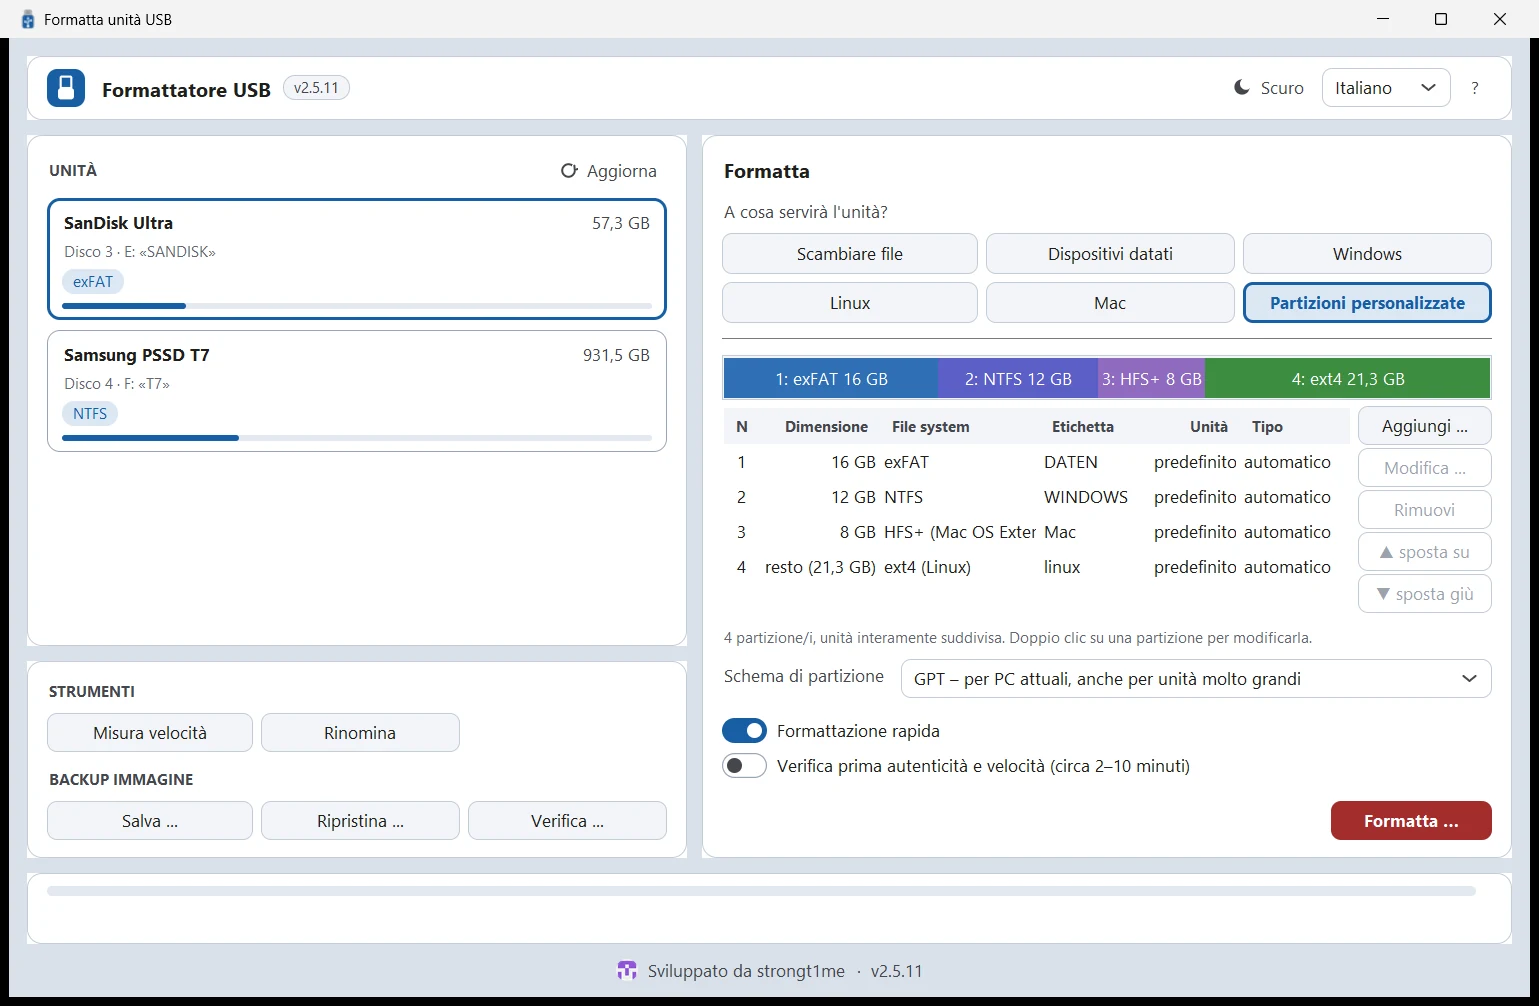
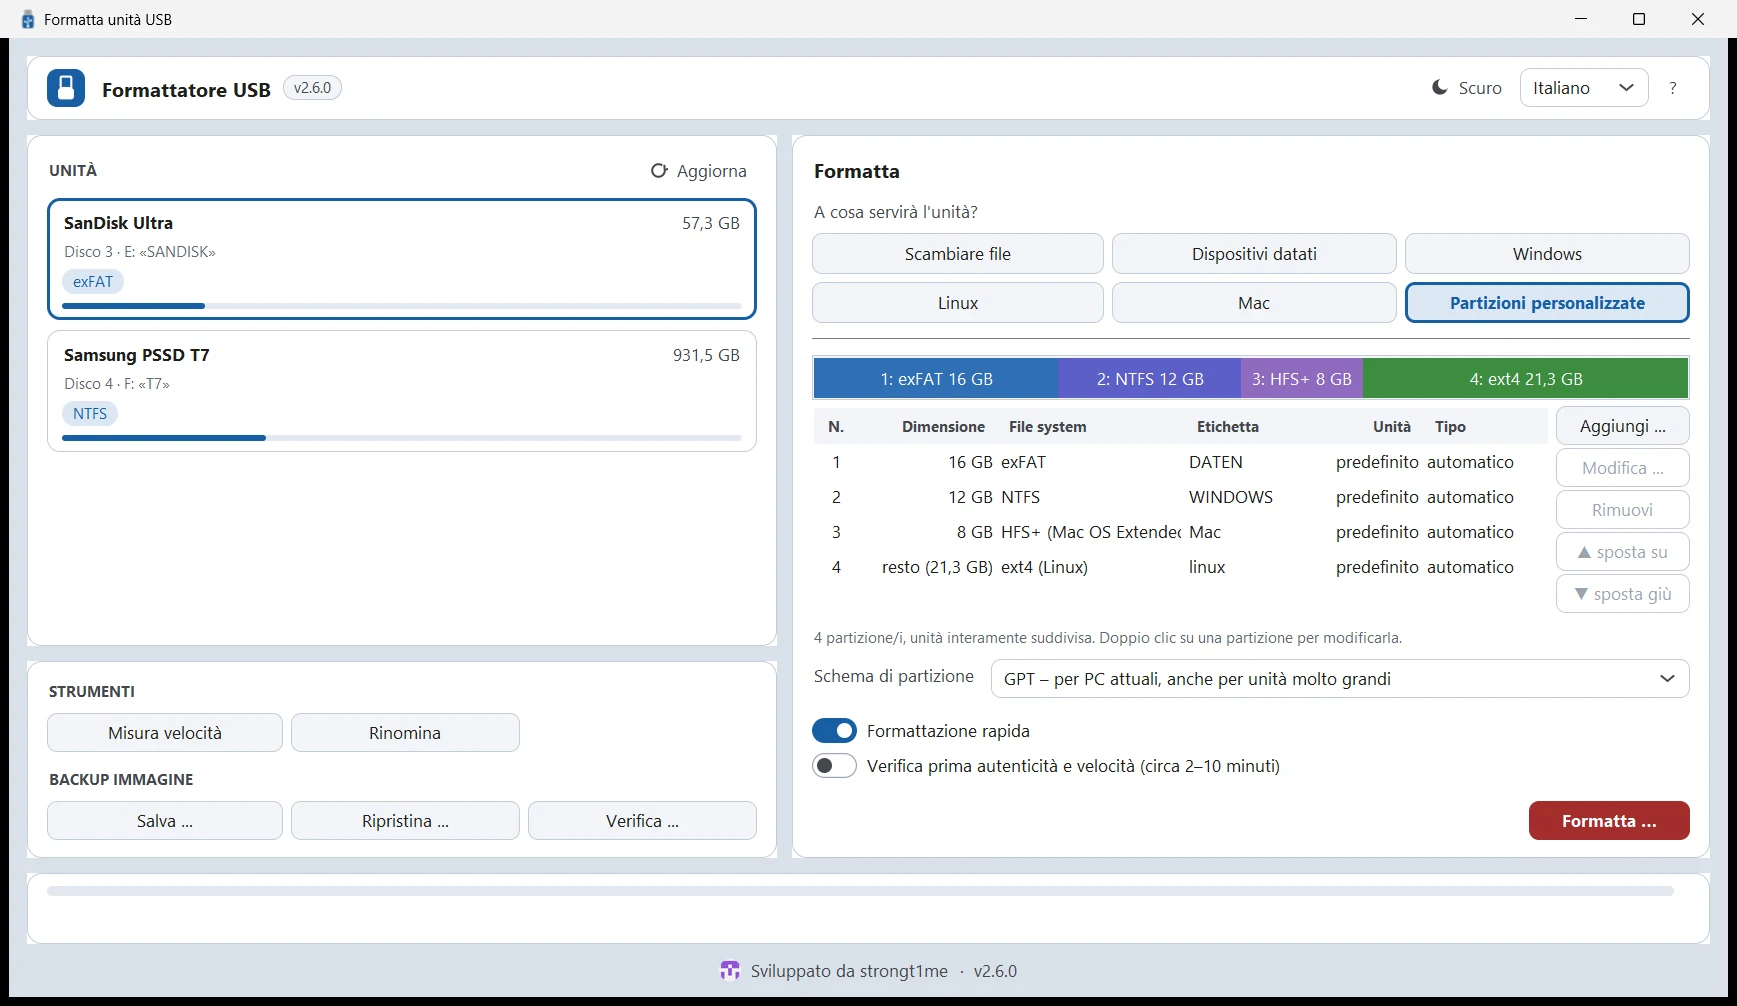
2.6.0: neue Oberfläche der PC-Programme (hell/dunkel), Image prüfen und löschen
Version 2.6.0, README-Bilder im neuen Look. Inhalt siehe vorigen Commit.

diff --git a/README.es.md b/README.es.md
@@ -7,7 +7,7 @@
 **Formatea pendrives y discos USB – directamente en la PS5 o en el PC.**<br>
 Con prueba de autenticidad y velocidad, copia de imagen, gestión de juegos, todos los sistemas de archivos habituales y particiones propias.
 
-[![Versión](https://img.shields.io/badge/Versi%C3%B3n-2.5.11-185fa5?style=for-the-badge)](../../releases/latest)
+[![Versión](https://img.shields.io/badge/Versi%C3%B3n-2.6.0-185fa5?style=for-the-badge)](../../releases/latest)
 [![Licencia](https://img.shields.io/badge/Licencia-GPL--3.0-6e7781?style=for-the-badge)](LICENSE)
 [![Plataforma](https://img.shields.io/badge/Plataforma-PS5%20%7C%20Windows%20%7C%20Linux-0070d1?style=for-the-badge)](#-descarga)
 [![Idiomas](https://img.shields.io/badge/Idiomas-DE%20%7C%20EN%20%7C%20IT%20%7C%20ES%20%7C%20FR-3b6d11?style=for-the-badge)](#-funciones)

diff --git a/README.fr.md b/README.fr.md
@@ -7,7 +7,7 @@
 **Formatez clés et disques USB – directement sur la PS5 ou sur le PC.**<br>
 Avec test d'authenticité et de vitesse, sauvegarde image, gestion des jeux, tous les systèmes de fichiers courants et vos propres partitions.
 
-[![Version](https://img.shields.io/badge/Version-2.5.11-185fa5?style=for-the-badge)](../../releases/latest)
+[![Version](https://img.shields.io/badge/Version-2.6.0-185fa5?style=for-the-badge)](../../releases/latest)
 [![Licence](https://img.shields.io/badge/Licence-GPL--3.0-6e7781?style=for-the-badge)](LICENSE)
 [![Plateforme](https://img.shields.io/badge/Plateforme-PS5%20%7C%20Windows%20%7C%20Linux-0070d1?style=for-the-badge)](#-téléchargement)
 [![Langues](https://img.shields.io/badge/Langues-DE%20%7C%20EN%20%7C%20IT%20%7C%20ES%20%7C%20FR-3b6d11?style=for-the-badge)](#-fonctions)

diff --git a/README.it.md b/README.it.md
@@ -7,7 +7,7 @@
 **Formatta chiavette e dischi USB – direttamente sulla PS5 o sul PC.**<br>
 Con test di autenticità e velocità, backup immagine, gestione dei giochi, tutti i file system più diffusi e partizioni personalizzate.
 
-[![Versione](https://img.shields.io/badge/Versione-2.5.11-185fa5?style=for-the-badge)](../../releases/latest)
+[![Versione](https://img.shields.io/badge/Versione-2.6.0-185fa5?style=for-the-badge)](../../releases/latest)
 [![Licenza](https://img.shields.io/badge/Licenza-GPL--3.0-6e7781?style=for-the-badge)](LICENSE)
 [![Piattaforma](https://img.shields.io/badge/Piattaforma-PS5%20%7C%20Windows%20%7C%20Linux-0070d1?style=for-the-badge)](#-download)
 [![Lingue](https://img.shields.io/badge/Lingue-DE%20%7C%20EN%20%7C%20IT%20%7C%20ES%20%7C%20FR-3b6d11?style=for-the-badge)](#-funzioni)

diff --git a/README.de.md b/README.de.md
@@ -7,7 +7,7 @@
 **USB-Sticks und -Festplatten formatieren – direkt an der PS5 oder am PC.**<br>
 Mit Echtheits- und Tempotest, Image-Sicherung, Spieleverwaltung, allen gängigen Dateisystemen und eigenen Partitionen.
 
-[![Version](https://img.shields.io/badge/Version-2.5.11-185fa5?style=for-the-badge)](../../releases/latest)
+[![Version](https://img.shields.io/badge/Version-2.6.0-185fa5?style=for-the-badge)](../../releases/latest)
 [![Lizenz](https://img.shields.io/badge/Lizenz-GPL--3.0-6e7781?style=for-the-badge)](LICENSE)
 [![Plattform](https://img.shields.io/badge/Plattform-PS5%20%7C%20Windows%20%7C%20Linux-0070d1?style=for-the-badge)](#-download)
 [![Sprachen](https://img.shields.io/badge/Sprachen-DE%20%7C%20EN%20%7C%20IT%20%7C%20ES%20%7C%20FR-3b6d11?style=for-the-badge)](#-funktionen)

diff --git a/README.md b/README.md
@@ -7,7 +7,7 @@
 **Format USB sticks and drives – directly on the PS5 or on your PC.**<br>
 With authenticity and speed tests, image backup, game management, all common file systems and custom partitions.
 
-[![Version](https://img.shields.io/badge/Version-2.5.11-185fa5?style=for-the-badge)](../../releases/latest)
+[![Version](https://img.shields.io/badge/Version-2.6.0-185fa5?style=for-the-badge)](../../releases/latest)
 [![Licence](https://img.shields.io/badge/Licence-GPL--3.0-6e7781?style=for-the-badge)](LICENSE)
 [![Platform](https://img.shields.io/badge/Platform-PS5%20%7C%20Windows%20%7C%20Linux-0070d1?style=for-the-badge)](#-download)
 [![Languages](https://img.shields.io/badge/Languages-DE%20%7C%20EN%20%7C%20IT%20%7C%20ES%20%7C%20FR-3b6d11?style=for-the-badge)](#-features)
